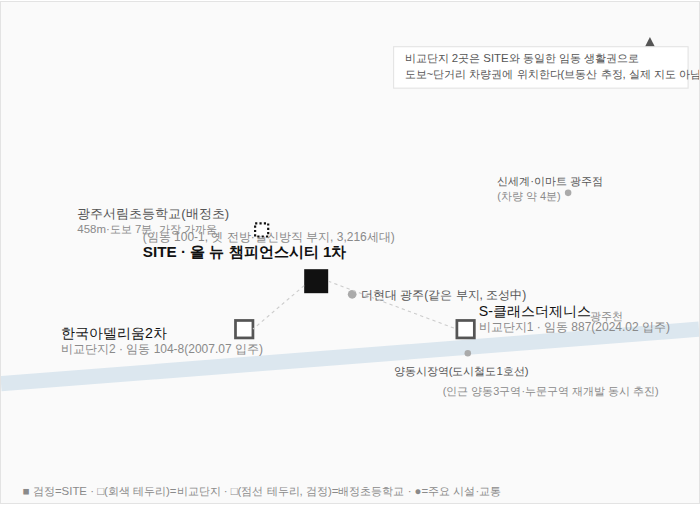
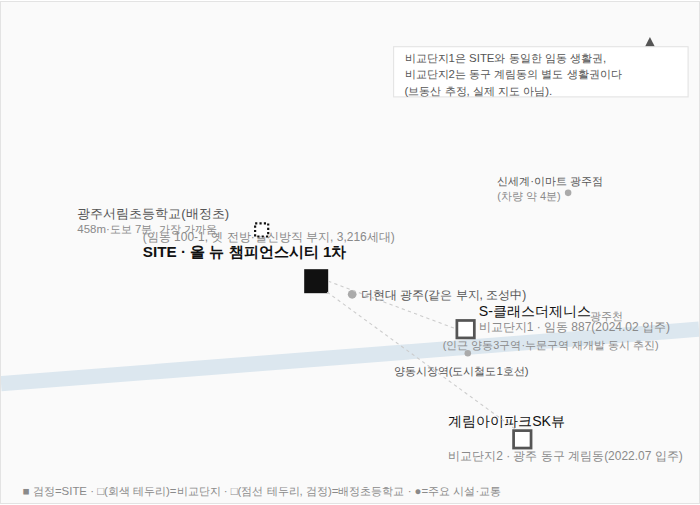
올 뉴 챔피언스시티 1차 비교단지2 교체 (한국아델리움2차 → 계림아이파크SK뷰) — 재산출
랜드마크급 복합개발 단지와 비교하기에 한국아델리움2차(2007년, 574세대,
중소건설사)는 규모·연식·브랜드 격차가 지나치게 크다고 판단해 비교단지2를
계림아이파크SK뷰(광주 동구 계림동, HDC현대산업개발+SK에코플랜트, 1,715
세대, 2022년 7월 입주)로 교체. 84㎡ 기준가는 리치고 평형별 시세(34평형,
6.6억, 2026.09.28 확인) 인용. 브랜드가 '아이파크·SK뷰' 상위등급(20점)이라
SITE·비교단지1보다 오히려 높게 평가됨.

재계산 결과 적정가 6.51억→7.91억, 예상 프리미엄 -1.52억→-0.12억(고평가
19%→2%, 오차범위 내 사실상 적정가 수준)으로 결론이 크게 바뀜. 표·설명·
지도(비교단지2 생활권 분리 반영)·레이더·브릿지 차트·강점/리스크·결론
문단을 전부 새 결론에 맞춰 재작성. 네이버 복사용 PNG 3종 재캡처, 관련
포스팅 3건 동기화.

Claude-Session: https://claude.ai/code/session_014bA9ezyn55FbTPVbxFkuZW

diff --git a/posts/allnew-champions-city-1cha.html b/posts/allnew-champions-city-1cha.html
@@ -200,7 +200,7 @@
 <div class="wrap">
 
   <div class="titleblock">
-    <h1>광주 - 올 뉴 챔피언스시티 1차 | 옛 방직공장 부지 최고 49층 3,216세대, 예상 프리미엄은 -1.5억</h1>
+    <h1>광주 - 올 뉴 챔피언스시티 1차 | 옛 방직공장 부지 최고 49층 3,216세대, 예상 프리미엄은 -1천만</h1>
   </div>
   <div class="byline">
     <span class="avatar">브</span>
@@ -226,17 +226,17 @@
     <div class="stat-pair">
       <div class="stat-box">
         <div class="sk">브동산 적정가 (84㎡)</div>
-        <div class="sv">6.51<span style="font-size:15px;font-weight:400;"> 억원</span></div>
-        <div class="sbar"><div style="width:81%"></div></div>
+        <div class="sv">7.91<span style="font-size:15px;font-weight:400;"> 억원</span></div>
+        <div class="sbar"><div style="width:98%"></div></div>
       </div>
       <div class="stat-box">
         <div class="sk">실제 분양가 (84A, 공개범위 중간값)</div>
         <div class="sv">8.03<span style="font-size:15px;font-weight:400;"> 억원</span></div>
         <div class="sbar"><div style="width:100%"></div></div>
-        <span class="delta">약 19% 고평가</span>
+        <span class="delta">약 2% 고평가</span>
       </div>
     </div>
-    <p class="premium" style="margin-top:-8px;">예상 프리미엄 -1.52억</p>
+    <p class="premium" style="margin-top:-8px;">예상 프리미엄 -0.12억</p>
 
     <div class="map-wrap">
       <svg viewBox="0 0 640 460" role="img" aria-label="올 뉴 챔피언스시티 1차 사업지, 비교단지 2곳, 배정초등학교, 주요 시설 위치를 나타낸 브동산 자체 제작 개략도">
@@ -267,16 +267,16 @@
         <text x="70" y="198" font-size="12" fill="#555555">광주서림초등학교(배정초)</text>
         <text x="70" y="212" font-size="10.5" fill="#8A8A8A">458m·도보 7분, 가장 가까움</text>
 
-        <!-- comp2: 한국아델리움2차 -->
-        <rect x="215" y="292" width="16" height="16" fill="#FFFFFF" stroke="#555555" stroke-width="2.5"/>
-        <text x="55" y="308" font-size="13" fill="#111111">한국아델리움2차</text>
-        <text x="55" y="322" font-size="11" fill="#8A8A8A">비교단지2 · 임동 104-8(2007.07 입주)</text>
+        <!-- comp2: 계림아이파크SK뷰 (동구 계림동, SITE와 다른 생활권) -->
+        <rect x="470" y="393" width="16" height="16" fill="#FFFFFF" stroke="#555555" stroke-width="2.5"/>
+        <text x="410" y="389" font-size="13" fill="#111111">계림아이파크SK뷰</text>
+        <text x="410" y="420" font-size="11" fill="#8A8A8A">비교단지2 · 광주 동구 계림동(2022.07 입주)</text>
 
         <!-- comp1: S-클래스더제니스 -->
         <rect x="418" y="292" width="16" height="16" fill="#FFFFFF" stroke="#555555" stroke-width="2.5"/>
         <text x="438" y="288" font-size="13" fill="#111111">S-클래스더제니스</text>
         <text x="438" y="302" font-size="11" fill="#8A8A8A">비교단지1 · 임동 887(2024.02 입주)</text>
-        <text x="405" y="360" font-size="10" fill="#8A8A8A">(인근 양동3구역·누문구역 재개발 동시 추진)</text>
+        <text x="405" y="318" font-size="10" fill="#8A8A8A">(인근 양동3구역·누문구역 재개발 동시 추진)</text>
 
         <!-- 양동시장역 -->
         <circle cx="428" cy="322" r="3" fill="#AAAAAA"/>
@@ -289,19 +289,20 @@
 
         <!-- connecting dashed -->
         <line x1="300" y1="256" x2="418" y2="300" stroke="#CCCCCC" stroke-width="1" stroke-dasharray="3 3"/>
-        <line x1="278" y1="260" x2="231" y2="300" stroke="#CCCCCC" stroke-width="1" stroke-dasharray="3 3"/>
+        <line x1="299" y1="266" x2="472" y2="392" stroke="#CCCCCC" stroke-width="1" stroke-dasharray="3 3"/>
 
         <!-- note box -->
         <g transform="translate(360,55)">
-          <rect x="0" y="-14" width="270" height="38" fill="#FFFFFF" stroke="#E3E3E3"/>
-          <text x="10" y="0" font-size="10.5" fill="#555555">비교단지 2곳은 SITE와 동일한 임동 생활권으로</text>
-          <text x="10" y="15" font-size="10.5" fill="#555555">도보~단거리 차량권에 위치한다(브동산 추정, 실제 지도 아님).</text>
+          <rect x="0" y="-14" width="270" height="46" fill="#FFFFFF" stroke="#E3E3E3"/>
+          <text x="10" y="0" font-size="10.5" fill="#555555">비교단지1은 SITE와 동일한 임동 생활권,</text>
+          <text x="10" y="15" font-size="10.5" fill="#555555">비교단지2는 동구 계림동의 별도 생활권이다</text>
+          <text x="10" y="30" font-size="10.5" fill="#555555">(브동산 추정, 실제 지도 아님).</text>
         </g>
 
         <text x="20" y="452" font-size="10.5" fill="#8A8A8A">■ 검정=SITE · □(회색 테두리)=비교단지 · □(점선 테두리, 검정)=배정초등학교 · ●=주요 시설·교통</text>
       </svg>
     </div>
-    <div class="cover-cap">지도: SITE·비교단지 2곳(S-클래스더제니스·한국아델리움2차)·배정초등학교(서림초)·주요 시설 상대 위치 — 브동산이 공개 정보와 실측 추정을 바탕으로 자체 제작한 개략도(축척·형태는 개략적 표현이며 실제 지도가 아닙니다)</div>
+    <div class="cover-cap">지도: SITE·비교단지 2곳(S-클래스더제니스·계림아이파크SK뷰)·배정초등학교(서림초)·주요 시설 상대 위치 — 브동산이 공개 정보와 실측 추정을 바탕으로 자체 제작한 개략도(축척·형태는 개략적 표현이며 실제 지도가 아닙니다)</div>
 
     <div class="radar-wrap">
       <svg viewBox="0 0 240 260" role="img" aria-label="입지, 브랜드, 상품성, 연식 4개 축으로 본 3개 단지 비교 레이더 차트">
@@ -312,7 +313,7 @@
           <polygon points="120,84 156,120 120,156 84,120" fill="none" stroke="#E3E3E3" stroke-width="1"/>
           <polygon points="120,102 138,120 120,138 102,120" fill="none" stroke="#E3E3E3" stroke-width="1"/>
         </g>
-        <polygon points="120.00,88.50 156.00,120.00 120.00,167.25 120.00,120.00" fill="none" stroke="#8A8A8A" stroke-width="1.5" stroke-dasharray="1.5 3"/>
+        <polygon points="120.00,70.50 210.00,120.00 120.00,194.25 60.00,120.00" fill="none" stroke="#8A8A8A" stroke-width="1.5" stroke-dasharray="1.5 3"/>
         <polygon points="120.00,48.00 192.00,120.00 120.00,201.00 54.30,120.00" fill="none" stroke="#555555" stroke-width="1.5" stroke-dasharray="5 3"/>
         <polygon points="120.00,41.25 192.00,120.00 120.00,210.00 30.00,120.00" fill="rgba(17,17,17,0.08)" stroke="#111111" stroke-width="2"/>
         <text x="120" y="20" text-anchor="middle" font-size="12" fill="#555555">입지</text>
@@ -323,14 +324,14 @@
       <div class="radar-legend">
         <span class="lg-item"><i class="lg-swatch lg-site"></i>SITE · 올 뉴 챔피언스시티 1차</span>
         <span class="lg-item"><i class="lg-swatch lg-c1"></i>S-클래스더제니스</span>
-        <span class="lg-item"><i class="lg-swatch lg-c2"></i>한국아델리움2차</span>
+        <span class="lg-item"><i class="lg-swatch lg-c2"></i>계림아이파크SK뷰</span>
       </div>
     </div>
 
     <div class="bridge-wrap">
 <svg viewBox="0 0 640 310" role="img" aria-label="비교단지 현재시세가 평점·연령 보정을 거쳐 SITE 적정가로 이어지는 과정을 보여주는 브동산 적정가 산출 브릿지 차트">
 <rect x="0" y="0" width="640" height="310" fill="#FAFAFA"/>
-<line x1="364.12" y1="20" x2="364.12" y2="219" stroke="#BBBBBB" stroke-width="1" stroke-dasharray="3 3"/>
+<line x1="496.58" y1="20" x2="496.58" y2="219" stroke="#BBBBBB" stroke-width="1" stroke-dasharray="3 3"/>
 <text x="0" y="36.00" font-size="12.5" font-weight="800" fill="#111111">임동 S-클래스더제니스</text>
 <text x="431.02" y="52.00" text-anchor="middle" font-size="10.5" fill="#8A8A8A">평점·연령 ×1.128</text>
 <line x1="390.10" y1="66.00" x2="471.93" y2="66.00" stroke="#555555" stroke-width="1.5"/>
@@ -338,21 +339,20 @@
 <rect x="466.93" y="61.00" width="10" height="10" fill="#111111"/>
 <polygon points="466.93,66.00 458.93,63.00 458.93,69.00" fill="#555555"/>
 <text x="380.10" y="84.00" text-anchor="end" font-size="11" font-weight="400" fill="#8A8A8A">6.78억</text><text x="481.93" y="84.00" text-anchor="start" font-size="11" font-weight="700" fill="#111111">7.65억</text>
-<text x="0" y="122.00" font-size="12.5" font-weight="800" fill="#111111">임동 한국아델리움2차</text>
-<text x="179.28" y="138.00" text-anchor="middle" font-size="10.5" fill="#8A8A8A">평점·연령 ×1.440</text>
-<line x1="101.75" y1="152.00" x2="256.80" y2="152.00" stroke="#555555" stroke-width="1.5"/>
-<circle cx="101.75" cy="152.00" r="5.5" fill="#FFFFFF" stroke="#555555" stroke-width="2"/>
-<rect x="251.80" y="147.00" width="10" height="10" fill="#111111"/>
-<polygon points="251.80,152.00 243.80,149.00 243.80,155.00" fill="#555555"/>
-<text x="91.75" y="170.00" text-anchor="end" font-size="11" font-weight="400" fill="#8A8A8A">3.73억</text><text x="266.80" y="170.00" text-anchor="start" font-size="11" font-weight="700" fill="#111111">5.37억</text>
+<text x="0" y="122.00" font-size="12.5" font-weight="800" fill="#111111">계림아이파크SK뷰</text>
+<text x="447.00" y="138.00" text-anchor="middle" font-size="10.5" fill="#8A8A8A">평점·연령 ×1.237</text>
+<line x1="372.77" y1="152.00" x2="521.22" y2="152.00" stroke="#555555" stroke-width="1.5"/>
+<circle cx="372.77" cy="152.00" r="5.5" fill="#FFFFFF" stroke="#555555" stroke-width="2"/>
+<rect x="516.22" y="147.00" width="10" height="10" fill="#111111"/>
+<polygon points="516.22,152.00 508.22,149.00 508.22,155.00" fill="#555555"/>
+<text x="362.77" y="170.00" text-anchor="end" font-size="11" font-weight="400" fill="#8A8A8A">6.6억</text><text x="531.22" y="170.00" text-anchor="start" font-size="11" font-weight="700" fill="#111111">8.17억</text>
 <line x1="0" y1="194" x2="640" y2="194" stroke="#E3E3E3" stroke-width="1"/>
 <text x="0" y="218" font-size="12.5" font-weight="800" fill="#111111">올 뉴 챔피언스시티 1차 (SITE)</text>
-<text x="436.21" y="234" text-anchor="middle" font-size="11" font-weight="800" fill="#111111">예상 프리미엄 -1.52억</text>
-<line x1="364.12" y1="248" x2="508.30" y2="248" stroke="#111111" stroke-width="2"/>
+<text x="502.44" y="234" text-anchor="middle" font-size="11" font-weight="800" fill="#111111">예상 프리미엄 -0.12억</text>
+<line x1="496.58" y1="248" x2="508.30" y2="248" stroke="#111111" stroke-width="2"/>
 <circle cx="508.30" cy="248" r="5.5" fill="#FFFFFF" stroke="#111111" stroke-width="2"/>
-<path d="M 358.12 248 L 364.12 242 L 370.12 248 L 364.12 254 Z" fill="#111111"/>
-<polygon points="370.12,248.00 378.12,245.00 378.12,251.00" fill="#111111"/>
-<text x="354.12" y="270" text-anchor="end" font-size="11" font-weight="800" fill="#111111">적정가 6.51억</text>
+<path d="M 490.58 248 L 496.58 242 L 502.58 248 L 496.58 254 Z" fill="#111111"/>
+<text x="482.58" y="270" text-anchor="end" font-size="11" font-weight="800" fill="#111111">적정가 7.91억</text>
 <text x="518.30" y="270" text-anchor="start" font-size="11" font-weight="400" fill="#8A8A8A">실제분양가 8.03억</text>
 <text x="0" y="298" font-size="10.5" fill="#8A8A8A">○=현재시세/실제분양가 · ■=평점·연령 보정 후 보정가격 · ◆=SITE 적정가(두 보정가격 평균) · 점선=적정가 기준선 · ▶=보정·산출 방향(현재시세→보정가격, 분양가→적정가)</text>
 </svg>
@@ -361,29 +361,29 @@
 
     <div class="tablewrap">
       <table>
-        <thead><tr><th>평가 항목</th><th>SITE · 올뉴챔피언스시티1차<br><span class="note" style="margin-top:2px;">(우미건설·신영씨앤디·3,216세대·2030년 11월 입주예정)</span></th><th>S-클래스더제니스<br><span class="note" style="margin-top:2px;">(중흥토건+두산건설·2,240세대·2024년 2월 입주)</span></th><th>한국아델리움2차<br><span class="note" style="margin-top:2px;">(한국건설·574세대·2007년 7월 입주)</span></th></tr></thead>
+        <thead><tr><th>평가 항목</th><th>SITE · 올뉴챔피언스시티1차<br><span class="note" style="margin-top:2px;">(우미건설·신영씨앤디·3,216세대·2030년 11월 입주예정)</span></th><th>S-클래스더제니스<br><span class="note" style="margin-top:2px;">(중흥토건+두산건설·2,240세대·2024년 2월 입주)</span></th><th>계림아이파크SK뷰<br><span class="note" style="margin-top:2px;">(HDC현대산업개발+SK에코플랜트·1,715세대·2022년 7월 입주)</span></th></tr></thead>
         <tbody>
-          <tr><td>입지(40)</td><td class="figure">35</td><td class="figure">32</td><td class="figure">14</td></tr>
-          <tr><td>브랜드(20)</td><td class="figure">16</td><td class="figure">16</td><td class="figure">8</td></tr>
-          <tr><td>상품성(40)</td><td class="figure">40</td><td class="figure">36</td><td class="figure">21</td></tr>
-          <tr><td>종합평점</td><td class="figure"><b>91</b></td><td class="figure">84</td><td class="figure">43</td></tr>
-          <tr><td>연식가산율</td><td class="figure">기준(입주예정)</td><td class="figure">6년9개월차·×1.054</td><td class="figure">23년4개월차(20년초과 상한)·×1.200</td></tr>
-          <tr><td>84㎡ 기준가</td><td class="figure">-</td><td class="figure">6.78억(2026.8~9 실거래 5건 평균)</td><td class="figure">3.73억(2026.1~4 실거래 3건 평균, 직거래 제외)</td></tr>
-          <tr><td>보정가격</td><td class="figure">-</td><td class="figure">7.65억</td><td class="figure">5.37억</td></tr>
+          <tr><td>입지(40)</td><td class="figure">35</td><td class="figure">32</td><td class="figure">22</td></tr>
+          <tr><td>브랜드(20)</td><td class="figure">16</td><td class="figure">16</td><td class="figure">20</td></tr>
+          <tr><td>상품성(40)</td><td class="figure">40</td><td class="figure">36</td><td class="figure">33</td></tr>
+          <tr><td>종합평점</td><td class="figure"><b>91</b></td><td class="figure">84</td><td class="figure">75</td></tr>
+          <tr><td>연식가산율</td><td class="figure">기준(입주예정)</td><td class="figure">6년9개월차·×1.054</td><td class="figure">8년4개월차·×1.067</td></tr>
+          <tr><td>84㎡ 기준가</td><td class="figure">-</td><td class="figure">6.78억(2026.8~9 실거래 5건 평균)</td><td class="figure">6.6억(리치고 34평형 시세, 2026.09.28 확인)</td></tr>
+          <tr><td>보정가격</td><td class="figure">-</td><td class="figure">7.65억</td><td class="figure">8.17억</td></tr>
         </tbody>
       </table>
     </div>
-    <p class="note">평점은 브동산이 교통·주거·교육 여건과 브랜드·세대수·조망·주차 등을 종합해 자체 산정한 값입니다. SITE(우미건설·신영씨앤디)와 S-클래스더제니스(중흥토건+두산건설)는 브동산 브랜드 등급상 '대기업 중위'로 동일하게 평가했고, 한국아델리움2차(한국건설, 2009년 워크아웃 이력이 있는 지역 중소건설사)는 '중소'로 낮게 평가했습니다. 84㎡ 기준가는 호갱노노·국토교통부 실거래가(2026.09.27 확인)를 인용했으며, SITE 분양가는 84A 타입의 공개된 분양가 범위(7.35억~8.70억)의 중간값입니다. 전남광주는 행정상 '전남광주통합특별시'로 표기되지만, 브동산 평점 체계에서는 종전 광주광역시와 동일한 '광역시(지하철 중심)' 배점을 적용했습니다.</p>
+    <p class="note">평점은 브동산이 교통·주거·교육 여건과 브랜드·세대수·조망·주차 등을 종합해 자체 산정한 값입니다. SITE(우미건설·신영씨앤디)와 S-클래스더제니스(중흥토건+두산건설)는 브동산 브랜드 등급상 '대기업 중위'로 동일하게 평가했고, 계림아이파크SK뷰(HDC현대산업개발+SK에코플랜트)는 '아이파크'·'SK뷰' 모두 '대기업 상위'에 해당해 더 높게(20점) 평가했습니다. 84㎡ 기준가는 S-클래스더제니스는 호갱노노·국토교통부 실거래가(2026.09.27 확인), 계림아이파크SK뷰는 리치고(richgo.ai) 평형별 시세(34평형, 2026.09.28 확인)를 인용했으며, SITE 분양가는 84A 타입의 공개된 분양가 범위(7.35억~8.70억)의 중간값입니다. 전남광주는 행정상 '전남광주통합특별시'로 표기되지만, 브동산 평점 체계에서는 종전 광주광역시와 동일한 '광역시(지하철 중심)' 배점을 적용했습니다.</p>
 
     <ul class="plain">
       <li><b>입지:</b> SITE는 서림초등학교를 도보 7분(458m)에 이용할 수 있고 신세계·이마트 광주점도 차량 4분 거리지만, 정작 도시철도(양동시장역)까지는 1.3km·도보 19분으로 다소 거리가 있어 원래 낮게 평가했습니다. 다만 같은 부지 안에 헤르초크&amp;드뫼롱이 설계한 '더현대 광주' 백화점과 특급호텔이 함께 들어선다는 점은 단순한 생활 인프라를 넘어 거의 랜드마크급 인프라를 끼고 있는 것으로 판단해, 입지 점수를 15점에서 35점으로 상향 조정했습니다(2026.09.28, 편집 조정). 이 조정으로 역세권에서 앞섰던 같은 임동의 S-클래스더제니스(입지 32점)보다도 SITE의 입지 점수가 근소하게 더 높아졌습니다.</li>
-      <li><b>브랜드:</b> 우미건설·신영씨앤디(SITE)와 중흥토건+두산건설(S-클래스더제니스)은 브동산 등급상 동일한 '대기업 중위'로 평가해 브랜드 점수 차이는 없습니다. 2009년 워크아웃 이력이 있는 지역 중소건설사 한국건설(한국아델리움2차)은 낮게 평가했습니다.</li>
-      <li><b>상품성:</b> SITE는 3,216세대 초대형 규모에 최고 49층 랜드마크, 광주 최대 규모(약 1.2만㎡) 커뮤니티에 더해 같은 챔피언스시티 부지에 더현대 광주와 특급호텔·업무시설까지 함께 들어서는 복합개발이라는 상징성을 반영해 상품성 점수를 40점(만점)으로 상향 조정했습니다(2026.09.28, 편집 조정). 2024년 준공한 S-클래스더제니스는 '광주 첫 하이엔드'를 표방하는 신축 대단지지만 단일 주거단지라는 점에서 SITE보다는 낮게, 2007년식 한국아델리움2차는 상품성이 뚜렷하게 낮게 평가했습니다.</li>
-      <li><b>브동산 적정가 기준으로는 뚜렷한 고평가 신호(약 19%).</b> 입지·상품성 재평가를 반영해도, SITE와 같은 생활권이면서 최근 2년 내 실거래가 활발한 S-클래스더제니스의 시세(6.78억)를 입지·브랜드·상품성·연식 차이만큼 보정하면 7.65억에 그쳐, SITE의 84A 분양가(중간값 8.03억)보다 낮습니다.</li>
-      <li><b>실제 청약 성적은 양극화됐습니다.</b> 일반공급 2,932가구 모집에 3,641명이 접수해 평균 1.24대 1을 기록했지만, 84A 타입은 5.47대 1로 흥행한 반면 84C·84E·103B 등 다른 타입은 2순위에서도 미달됐습니다. 브동산 모형상 고평가 신호와 '쏠림·미달 혼재'라는 실제 청약 결과가 같은 방향을 가리키고 있습니다.</li>
+      <li><b>브랜드:</b> 우미건설·신영씨앤디(SITE)와 중흥토건+두산건설(S-클래스더제니스)은 브동산 등급상 동일한 '대기업 중위'로 평가해 두 곳의 브랜드 점수 차이는 없습니다. 반면 계림아이파크SK뷰는 '아이파크'·'SK뷰' 모두 브동산 등급상 '대기업 상위'에 해당해 오히려 SITE·S-클래스더제니스보다 브랜드 점수가 높습니다(20점).</li>
+      <li><b>상품성:</b> SITE는 3,216세대 초대형 규모에 최고 49층 랜드마크, 광주 최대 규모(약 1.2만㎡) 커뮤니티에 더해 같은 챔피언스시티 부지에 더현대 광주와 특급호텔·업무시설까지 함께 들어서는 복합개발이라는 상징성을 반영해 상품성 점수를 40점(만점)으로 상향 조정했습니다(2026.09.28, 편집 조정). 2024년 준공한 S-클래스더제니스는 '광주 첫 하이엔드'를 표방하는 신축 대단지지만 단일 주거단지라는 점에서 SITE보다는 낮게, 2022년 준공한 계림아이파크SK뷰는 1,715세대 대단지 신축이지만 마찬가지로 순수 주거단지라 SITE보다는 낮게 평가했습니다.</li>
+      <li><b>브동산 적정가 기준으로는 사실상 적정가 수준(약 2%, 오차범위 내).</b> 비교단지를 입지·연식이 더 비슷한 계림아이파크SK뷰(2022년 입주, 1,715세대)로 교체해 다시 산출한 결과, S-클래스더제니스·계림아이파크SK뷰 두 곳의 보정가격 평균은 7.91억으로 SITE의 84A 분양가(중간값 8.03억)와 거의 일치합니다.</li>
+      <li><b>실제 청약 성적은 양극화됐습니다.</b> 일반공급 2,932가구 모집에 3,641명이 접수해 평균 1.24대 1을 기록했지만, 84A 타입은 5.47대 1로 흥행한 반면 84C·84E·103B 등 다른 타입은 2순위에서도 미달됐습니다. 브동산 모형상으로는 분양가가 사실상 적정 수준인데도 이런 쏠림·미달이 나타난 걸 보면, 가격 자체보다 다른 요인이 더 크게 작용했을 가능성이 있습니다.</li>
     </ul>
 
-    <p>종합하면 브동산 모형상으로는 이 단지의 84A 분양가가 같은 임동 생활권의 최근 실거래 시세 대비 상당히 높게 책정된 것으로 나타났습니다. 다만 '더현대 광주'라는 대형 상업시설이 같은 부지에 들어선다는 점은 현재의 시세 비교로는 온전히 반영되지 않는 미래 가치이므로, 이 프리미엄 격차를 해석할 때 함께 고려할 필요가 있습니다.</p>
+    <p>종합하면 브동산 모형상으로는 이 단지의 84A 분양가가 비교단지 대비 사실상 적정 수준으로 나타났습니다. 다만 '더현대 광주'라는 대형 상업시설이 같은 부지에 들어선다는 점은 현재의 시세 비교로는 온전히 반영되지 않는 미래 가치이므로, 실제로는 이보다 더 유리한 조건일 가능성도 함께 고려할 필요가 있습니다.</p>
   </section>
 
   <section id="s2">
@@ -505,9 +505,9 @@
       </div>
     </div>
 
-    <p>임동·인근 매곡동·동림동에는 힐스테이트중외공원2·3블록(각 785·681세대, 2026년 12월 입주예정)과 운암산공원진아리채그랑뷰(414세대, 2026년 10월 입주예정) 등 신축 공급이 비슷한 시기에 몰려 있습니다. 다만 이들은 SITE와 다른 생활권(매곡동·동림동)이라 직접 경쟁 관계로 보기는 어렵습니다. 반면 SITE와 같은 임동 생활권의 S-클래스더제니스(2024년 입주)·한국아델리움2차(2007년 입주)는 이미 안정적으로 거래되고 있어, SITE 입주 시점(2030년)까지 상당한 시차가 있습니다.</p>
+    <p>임동·인근 매곡동·동림동에는 힐스테이트중외공원2·3블록(각 785·681세대, 2026년 12월 입주예정)과 운암산공원진아리채그랑뷰(414세대, 2026년 10월 입주예정) 등 신축 공급이 비슷한 시기에 몰려 있습니다. 다만 이들은 SITE와 다른 생활권(매곡동·동림동)이라 직접 경쟁 관계로 보기는 어렵습니다. 반면 SITE와 같은 임동 생활권의 S-클래스더제니스(2024년 입주)는 이미 안정적으로 거래되고 있고, 인접한 동구 계림동의 계림아이파크SK뷰(2022년 입주, 1,715세대) 역시 신축 대단지로 자리 잡아 SITE 입주 시점(2030년)까지 비교할 수 있는 시세 기준을 제공합니다.</p>
 
-    <p>실제로 SITE는 평균 1.24대 1로 전체적으로는 미달을 면했지만, 84A(5.47대 1)에만 수요가 몰리고 84C·84E·103B 등 나머지 타입은 2순위에서도 미달됐습니다. 브동산 모형상 고평가 신호(약 19%)와 이러한 '일부 쏠림·전반 부진'이 같은 방향을 가리키고 있어, 8억원대 후반에 이르는 높은 분양가가 부담 요인으로 작용했을 가능성이 있습니다. 다만 '더현대 광주' 개점(2028~2029년 목표)이라는 대형 호재가 아직 가격에 온전히 반영되지 않았을 가능성도 함께 고려해야 합니다.</p>
+    <p>실제로 SITE는 평균 1.24대 1로 전체적으로는 미달을 면했지만, 84A(5.47대 1)에만 수요가 몰리고 84C·84E·103B 등 나머지 타입은 2순위에서도 미달됐습니다. 브동산 모형상으로는 분양가가 비교단지 대비 사실상 적정 수준이었는데도 이런 '일부 쏠림·전반 부진'이 나타난 것은, 가격 자체보다 8억원대 후반에 이르는 절대 금액 부담이나 4년 이상 남은 긴 입주 대기 기간 같은 다른 요인이 더 크게 작용했을 가능성을 시사합니다. '더현대 광주' 개점(2028~2029년 목표)이라는 대형 호재가 아직 가격에 온전히 반영되지 않았을 가능성도 함께 고려해야 합니다.</p>
   </section>
 
   <section id="s5">
@@ -520,12 +520,12 @@
           <li>서림초등학교 도보 7분, 광주 최대 규모(약 1.2만㎡) 통합 커뮤니티</li>
           <li>84A 타입은 5.47대 1로 청약 흥행, 계약금 부담도 낮음(5%)</li>
           <li>양동3구역·누문구역 재개발과 함께 임동 일대 전체가 재편되는 성장축</li>
+          <li>비교단지 재평가 결과 브동산 모형상 분양가가 사실상 적정 수준(약 2% 차이)</li>
         </ul>
       </div>
       <div class="box">
         <h3>리스크</h3>
         <ul class="plain">
-          <li>브동산 모형상 같은 임동 생활권 실거래 시세 대비 약 19% 고평가 신호</li>
           <li>84C·84E·103B 등 다수 타입이 2순위에서도 미달</li>
           <li>도시철도(양동시장역)까지 1.3km로 도보 접근성은 약함</li>
           <li>입주까지 4년 이상 남은 후분양 이전 단계라, '더현대 광주' 등 호재의 실현 시점 리스크 존재</li>
@@ -533,7 +533,7 @@
         </ul>
       </div>
     </div>
-    <p>종합하면 이 단지는 더현대 광주와 함께 조성되는 초대형 복합개발이라는 상징성은 뚜렷하지만, 브동산 모형상으로는 같은 생활권의 신축 대단지 실거래 시세 대비 상당히 높게 책정된 것으로 나타났고, 84A를 제외한 타입의 청약 부진도 이를 뒷받침합니다. 다만 아직 조성 전인 더현대 광주의 미래 가치가 현재의 시세 비교에는 온전히 녹아있지 않다는 점도 감안해, 장기적 관점과 단기 고평가 신호를 함께 살펴 신중하게 접근할 필요가 있습니다.</p>
+    <p>종합하면 이 단지는 더현대 광주와 함께 조성되는 초대형 복합개발이라는 상징성이 뚜렷하고, 브동산 모형상으로도 비교단지 대비 분양가가 사실상 적정 수준인 것으로 나타났습니다. 다만 84A를 제외한 타입의 청약 부진은 모형상 가격 신호와는 별개로, 절대 금액 부담이나 긴 입주 대기 기간 같은 다른 요인이 작용했을 가능성을 보여줍니다. 아직 조성 전인 더현대 광주의 미래 가치가 현재의 시세 비교에는 온전히 녹아있지 않다는 점까지 고려하면, 장기적 관점에서는 오히려 여지가 있는 청약으로 볼 수 있습니다.</p>
   </section>
 
   <section id="ad">
@@ -597,7 +597,7 @@
   <div class="wrap">
     <div class="hairline" style="margin-bottom:20px;"></div>
     <p>
-      본 콘텐츠는 <b>브동산</b>이 언론 보도(서울신문·데일리한국·머니투데이·글로벌이코노믹 등)와 호갱노노·국토교통부 실거래가, 공개된 분양 정보를 종합해 작성한 정보성 콘텐츠이며, 투자 권유나 청약·매수 대행이 아닙니다. 비교단지 2곳의 84㎡ 기준가는 호갱노노가 국토교통부 실거래가를 정리한 값을 인용했으며, SITE 분양가는 84A 타입의 공개된 분양가 범위(7.35억~8.70억)의 중간값입니다. 배정초등학교(서림초)는 호갱노노를 인용한 것으로 입주자모집공고의 학교 배정 문서로 확인한 것은 아니며, 지구단위계획상 학교 신설이 추진 중이라 최종 배정은 달라질 수 있습니다. 공식 홈페이지 접속이 되지 않아 타입별 평면도 이미지는 게재하지 못했고, 대신 언론에 보도된 견본주택 실측 사진으로 갈음했습니다. 분양가·시세·청약 결과 등 수치는 각 자료 시점 기준이며 이후 달라질 수 있습니다. 실제 계약이나 매수 결정 전에는 반드시 청약홈(applyhome.co.kr), 입주자모집공고문, 최신 실거래가를 직접 확인하시기 바랍니다. 하단 상담 카드는 유료 광고 영역이며, 본 시안에서는 실감을 위해 가상의 예시 정보로 구성했습니다.
+      본 콘텐츠는 <b>브동산</b>이 언론 보도(서울신문·데일리한국·머니투데이·글로벌이코노믹 등)와 호갱노노·국토교통부 실거래가, 공개된 분양 정보를 종합해 작성한 정보성 콘텐츠이며, 투자 권유나 청약·매수 대행이 아닙니다. 비교단지 중 S-클래스더제니스의 84㎡ 기준가는 호갱노노가 국토교통부 실거래가를 정리한 값을, 계림아이파크SK뷰는 리치고(richgo.ai) 평형별 시세를 인용했으며, SITE 분양가는 84A 타입의 공개된 분양가 범위(7.35억~8.70억)의 중간값입니다. 배정초등학교(서림초)는 호갱노노를 인용한 것으로 입주자모집공고의 학교 배정 문서로 확인한 것은 아니며, 지구단위계획상 학교 신설이 추진 중이라 최종 배정은 달라질 수 있습니다. 공식 홈페이지 접속이 되지 않아 타입별 평면도 이미지는 게재하지 못했고, 대신 언론에 보도된 견본주택 실측 사진으로 갈음했습니다. 분양가·시세·청약 결과 등 수치는 각 자료 시점 기준이며 이후 달라질 수 있습니다. 실제 계약이나 매수 결정 전에는 반드시 청약홈(applyhome.co.kr), 입주자모집공고문, 최신 실거래가를 직접 확인하시기 바랍니다. 하단 상담 카드는 유료 광고 영역이며, 본 시안에서는 실감을 위해 가상의 예시 정보로 구성했습니다.
     </p>
   </div>
 </footer>

diff --git a/posts-data.js b/posts-data.js
@@ -156,12 +156,12 @@ const POSTS = [
     category: "realestate",
     region: "광주",
     tag: "청약 언박싱 No.025",
-    title: "광주 - 올 뉴 챔피언스시티 1차 | 옛 방직공장 부지 최고 49층 3,216세대, 예상 프리미엄은 -1.5억",
+    title: "광주 - 올 뉴 챔피언스시티 1차 | 옛 방직공장 부지 최고 49층 3,216세대, 예상 프리미엄은 -1천만",
     date: "2026-09-28",
     dateLabel: "2026. 9. 28",
     url: "posts/allnew-champions-city-1cha.html",
     preview: `
-      <p>광주 북구 임동, 옛 전방·일신방직 공장 부지에 우미건설·신영씨앤디가 짓는 올 뉴 챔피언스시티 1차는 지하 3층~지상 최고 49층, 12개동, 총 3,216세대 규모의 매머드급 복합개발 단지다. 같은 부지에 더현대 광주와 특급호텔·업무시설까지 들어서는 복합개발 상징성을 반영해 상품성 점수를 만점으로, 입지 점수도 15→35점으로 상향 조정했다(2026.09.28). 브동산이 같은 임동 생활권의 S-클래스더제니스·한국아델리움2차 두 단지의 84㎡ 가격을 보정해 산출한 적정가는 6.51억원으로, 실제 분양가(중간값 8.03억원)보다 약 19% 낮았다.</p>
+      <p>광주 북구 임동, 옛 전방·일신방직 공장 부지에 우미건설·신영씨앤디가 짓는 올 뉴 챔피언스시티 1차는 지하 3층~지상 최고 49층, 12개동, 총 3,216세대 규모의 매머드급 복합개발 단지다. 같은 부지에 더현대 광주와 특급호텔·업무시설까지 들어서는 복합개발 상징성을 반영해 상품성 점수를 만점으로, 입지 점수도 15→35점으로 상향 조정했다(2026.09.28). 브동산이 S-클래스더제니스·계림아이파크SK뷰 두 단지의 84㎡ 가격을 보정해 산출한 적정가는 7.91억원으로, 실제 분양가(중간값 8.03억원)와 약 2% 차이(사실상 적정가 수준)였다.</p>
     `
   },
   {

diff --git a/posts/hoban-summit-pungmu-3.html b/posts/hoban-summit-pungmu-3.html
@@ -576,7 +576,7 @@
       </a>
       <a class="related-item" href="allnew-champions-city-1cha.html">
         <span class="r-tag">청약 언박싱 No.025</span>
-        <span class="r-title">광주 - 올 뉴 챔피언스시티 1차 | 옛 방직공장 부지 최고 49층 3,216세대, 예상 프리미엄은 -1.5억</span>
+        <span class="r-title">광주 - 올 뉴 챔피언스시티 1차 | 옛 방직공장 부지 최고 49층 3,216세대, 예상 프리미엄은 -1천만</span>
       </a>
     </div>
     <div class="list-more"><a class="btn-list" href="https://brandongsan.com/realestate.html">청약·분양 목록 전체보기</a></div>

diff --git a/posts/pentahills-w-1danji.html b/posts/pentahills-w-1danji.html
@@ -614,7 +614,7 @@
       </a>
       <a class="related-item" href="allnew-champions-city-1cha.html">
         <span class="r-tag">청약 언박싱 No.025</span>
-        <span class="r-title">광주 - 올 뉴 챔피언스시티 1차 | 옛 방직공장 부지 최고 49층 3,216세대, 예상 프리미엄은 -1.5억</span>
+        <span class="r-title">광주 - 올 뉴 챔피언스시티 1차 | 옛 방직공장 부지 최고 49층 3,216세대, 예상 프리미엄은 -1천만</span>
       </a>
     </div>
     <div class="list-more"><a class="btn-list" href="https://brandongsan.com/realestate.html">청약·분양 목록 전체보기</a></div>

diff --git a/posts/gimhae-sinmun-central-ipark.html b/posts/gimhae-sinmun-central-ipark.html
@@ -550,7 +550,7 @@
     <div class="related-list">
       <a class="related-item" href="allnew-champions-city-1cha.html">
         <span class="r-tag">청약 언박싱 No.025</span>
-        <span class="r-title">광주 - 올 뉴 챔피언스시티 1차 | 옛 방직공장 부지 최고 49층 3,216세대, 예상 프리미엄은 -1.5억</span>
+        <span class="r-title">광주 - 올 뉴 챔피언스시티 1차 | 옛 방직공장 부지 최고 49층 3,216세대, 예상 프리미엄은 -1천만</span>
       </a>
       <a class="related-item" href="pentahills-w-1danji.html">
         <span class="r-tag">청약 언박싱 No.031</span>
